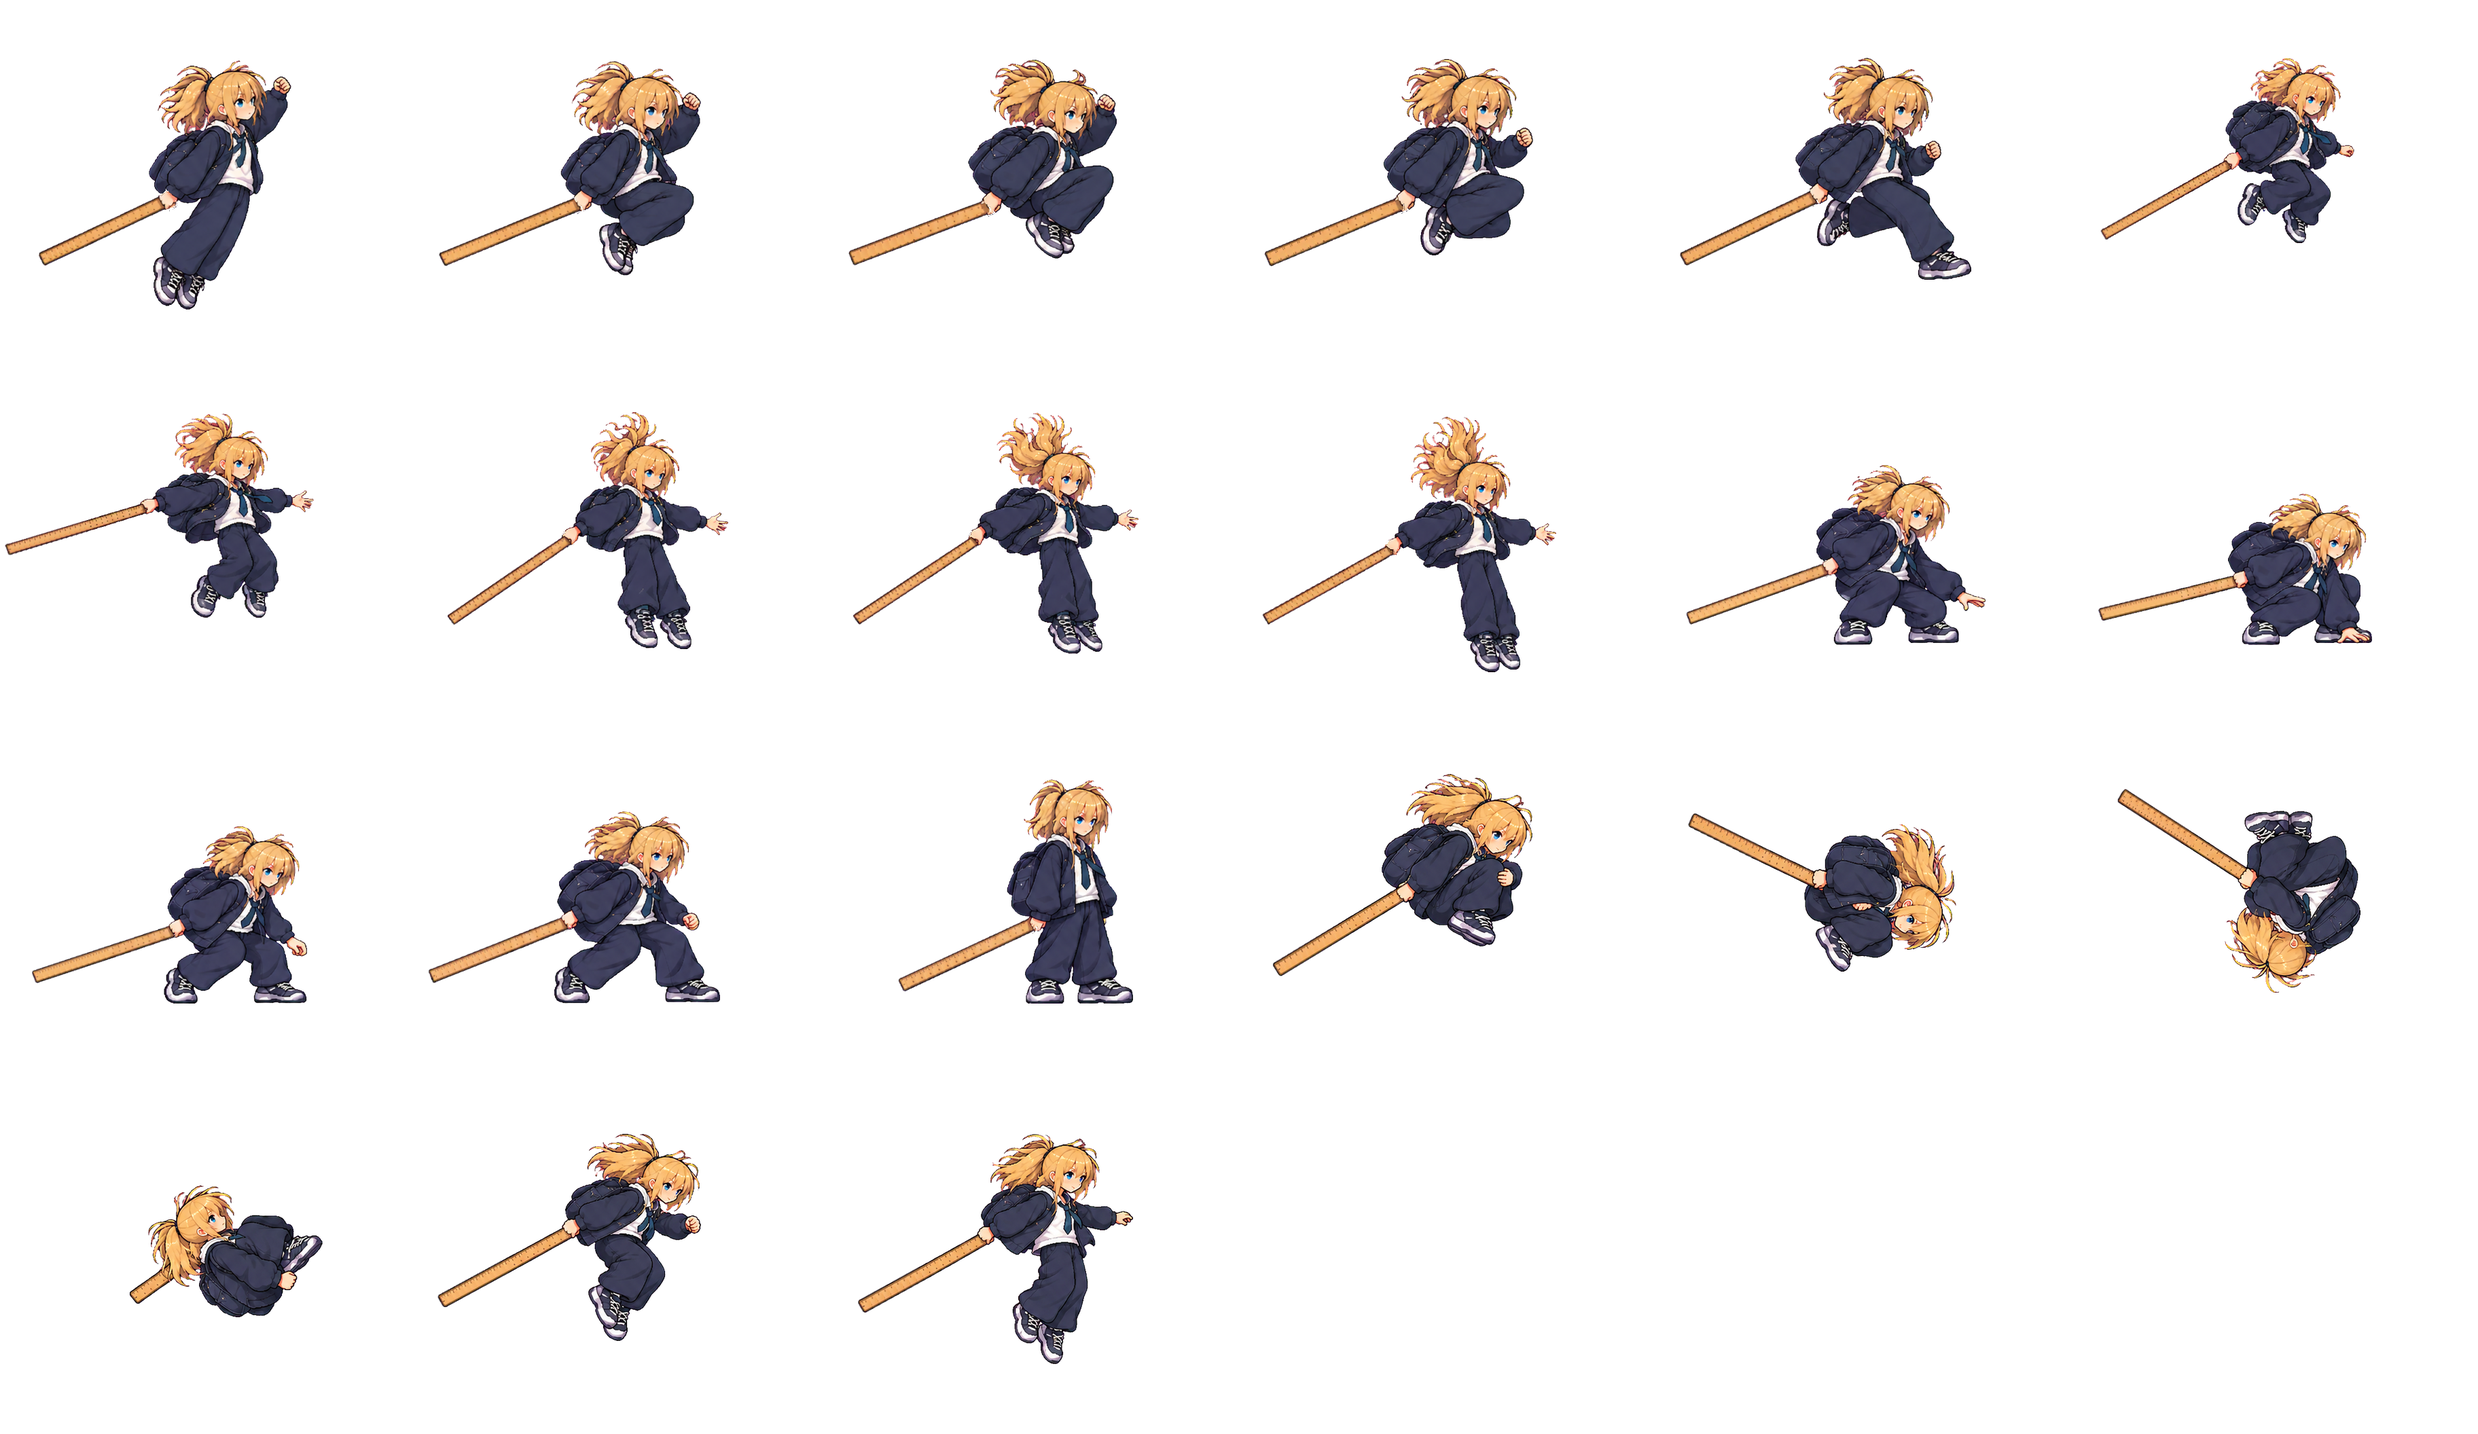
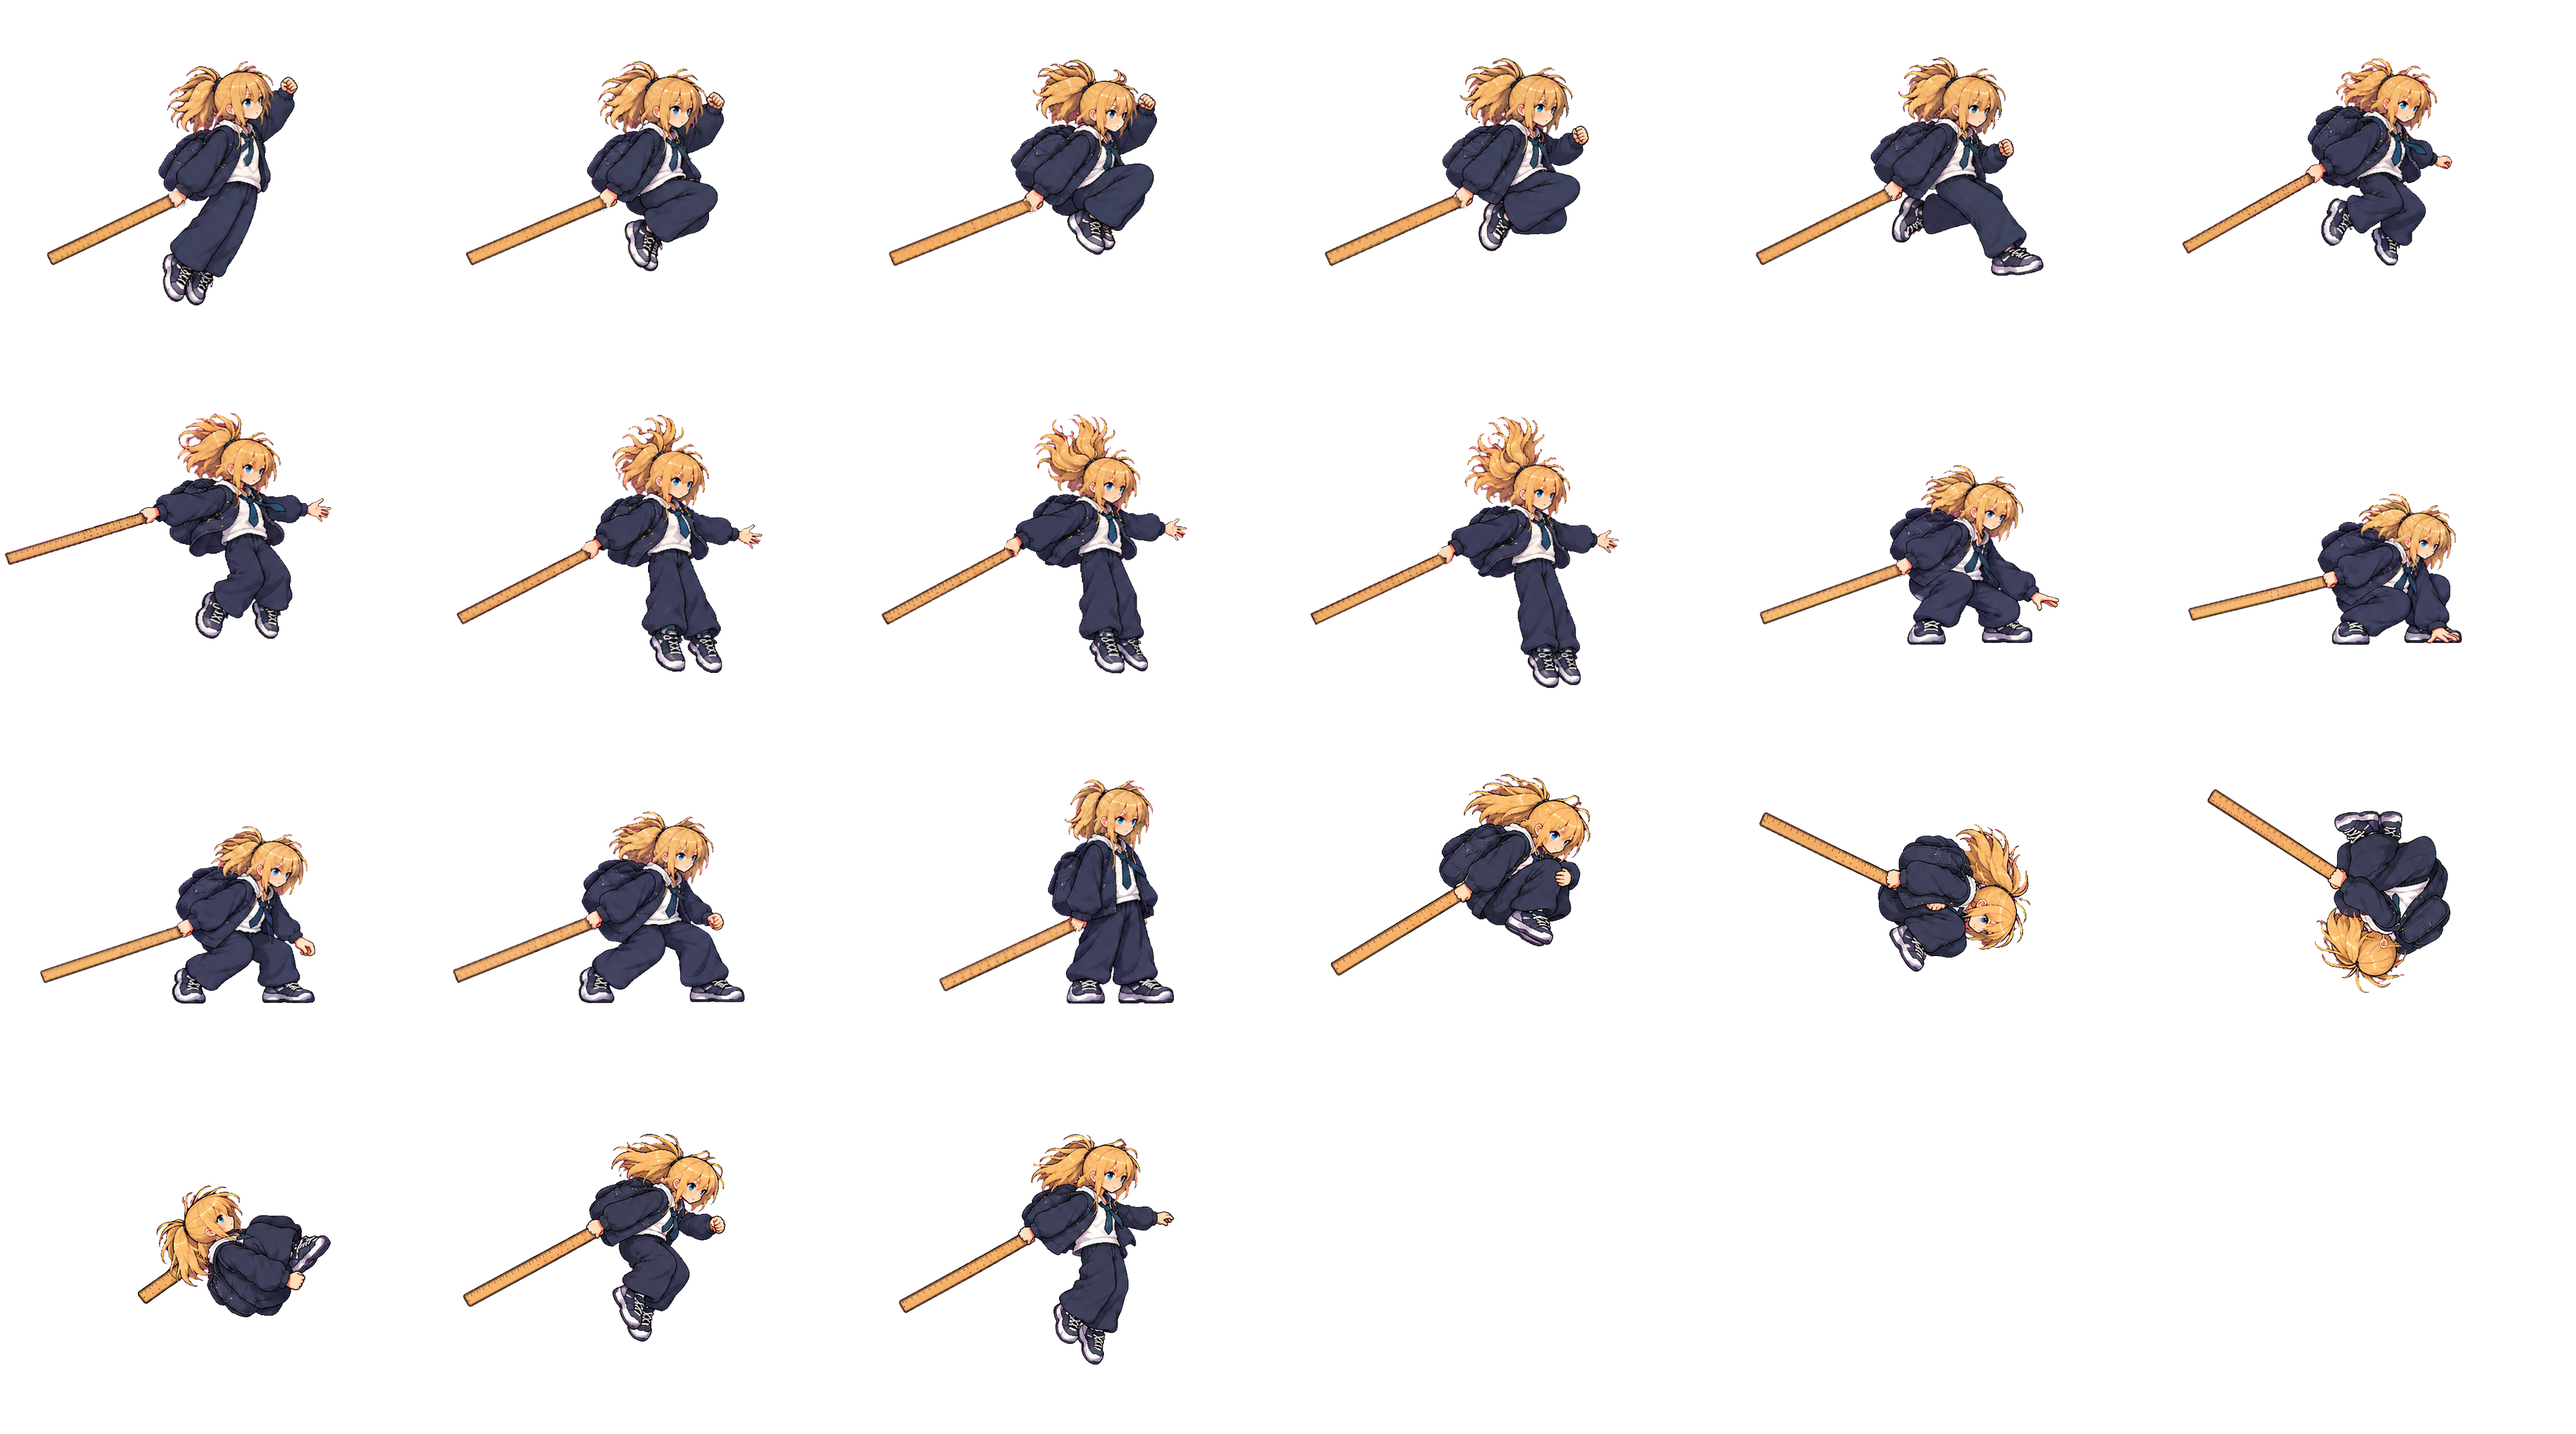
fix: escala del salto, la caida y el doble salto medida por el tamano de la cara
La caida salia un 12% mas chica que el salto y el idle porque se usaba una escala media supuesta. Ahora se mide la cara contra la del idle y la caida se acerca a la del aterrizaje.

diff --git a/tools/process_luz_jump_fall_land.py b/tools/process_luz_jump_fall_land.py
@@ -45,6 +45,7 @@ import luz_ruler_length as rl  # noqa: E402
 import process_luz_attacks as pa  # noqa: E402  (patches the wood mask, shares the work canvas)
 import process_luz_combat_hits as pch  # noqa: E402
 import process_luz_run_turn_skid as base  # noqa: E402
+import luz_face as lf  # noqa: E402
 
 ROOT = pa.ROOT
 RAW_DIR = pa.RAW_DIR
@@ -151,16 +152,29 @@ def torso_centroid(mask: np.ndarray) -> tuple[float, float]:
 
 
 # Raw sheets with a standing frame (slot, 0-based): the scale is the idle's standing height over
-# the standing figure's height. Codex draws every sheet with the same head size relative to its
-# standing figure (land 0.777, crouch 0.77-0.79), so the sheets without a standing frame (jump,
-# fall, double jump: airborne, no standing pose) use the mean of the measured ones; the heads were
-# overlaid on the idle head to confirm (see the P9 log in odd/tasks/luz-final.md).
+# the standing figure's height. The sheets without one (jump, fall, double jump: airborne) used
+# to take the mean of those scales (0.767), which made the fall's head 12% smaller than the
+# jump's and the idle's (a visible pop on the phone). They are now scaled from the face size
+# (tools/luz_face.py) so their head matches the idle's; the fall then eases from the idle face
+# to the face of the landing's standing frame over its frames, so fall -> land has no pop either.
 STANDING_SLOT = {"luz_jump_land_raw.png": 4, "luz_crouch_raw.png": 7}
+PROVISIONAL_SCALE = 0.767
+FACE_RAMP_TO_LAND = {"fall"}
+
+
+def scaled_copy(source: Image.Image, scale: float) -> Image.Image:
+    w, h = max(1, round(source.width * scale)), max(1, round(source.height * scale))
+    return pch.unpremultiply(pch.premultiply(source).resize((w, h), pch.RESAMPLE))
+
+
+def idle_face() -> float:
+    sheet = Image.open(ASSET_DIR / "luz_idle_sheet.png").convert("RGBA")
+    frames = [sheet.crop(((s % 4) * OUT_CELL, (s // 4) * OUT_CELL, (s % 4 + 1) * OUT_CELL, (s // 4 + 1) * OUT_CELL)) for s in (0, 1, 2, 4, 5, 6, 7)]
+    return lf.median_face(frames)
 
 
 def place(source: Image.Image, scale: float, anchor: str, idle: dict[str, float], front_ref: float, label: str) -> Image.Image:
-    w, h = max(1, round(source.width * scale)), max(1, round(source.height * scale))
-    scaled = pch.unpremultiply(pch.premultiply(source).resize((w, h), pch.RESAMPLE))
+    scaled = scaled_copy(source, scale)
     x0, y0, x1, y1 = base.alpha_bbox(scaled)
     scaled = scaled.crop((x0, y0, x1 + 1, y1 + 1))
     mask = base.body_mask(scaled)
@@ -203,14 +217,33 @@ def load_raws(idle: dict[str, float]) -> dict[str, tuple[dict[int, Image.Image],
             measured[raw_name] = idle["height"] / float(rows.max() - rows.min() + 1)
     if not measured:
         raise ValueError("no standing reference raw (land or crouch) to fix the scale")
-    fallback = statistics.mean(measured.values())
-    result = {name: (frames, measured.get(name, fallback)) for name, frames in sources.items()}
-    for name, (_, scale) in result.items():
-        print(f"{name}: scale={scale:.3f}" + ("" if name in measured else " (mean of the standing sheets)"))
+    result: dict[str, tuple[dict[int, Image.Image], float]] = {}
+    face_ref = idle_face()
+    for name, frames in sources.items():
+        if name in measured:
+            result[name] = (frames, measured[name])
+            print(f"{name}: scale={measured[name]:.3f} (standing height)")
+            continue
+        face = lf.median_face([scaled_copy(f, PROVISIONAL_SCALE) for f in frames.values()])
+        if face is None:
+            raise ValueError(f"{name}: no face found to fix the scale")
+        scale = PROVISIONAL_SCALE * face_ref / face
+        result[name] = (frames, scale)
+        print(f"{name}: scale={scale:.3f} (face {face:.1f} at {PROVISIONAL_SCALE} vs idle {face_ref:.1f}; before: 0.767)")
     return result
 
 
-def process_clip(name: str, config: dict, idle: dict[str, float], front_ref: float, raws: dict, ruler_report: list[dict]):
+def land_face_ratio(raws: dict) -> float:
+    """Face of the landing's standing frame over the idle's (the fall eases to it)."""
+    name = "luz_jump_land_raw.png"
+    if name not in raws:
+        return 1.0
+    frames, scale = raws[name]
+    face = lf.face_size(scaled_copy(frames[STANDING_SLOT[name]], scale))
+    return 1.0 if face is None else face / idle_face()
+
+
+def process_clip(name: str, config: dict, idle: dict[str, float], front_ref: float, raws: dict, ruler_report: list[dict], land_ratio: float = 1.0):
     if config["raw"] not in raws:
         print(f"{name}: {config['raw']} not found, skipped (previous output kept)")
         return None
@@ -220,7 +253,9 @@ def process_clip(name: str, config: dict, idle: dict[str, float], front_ref: flo
     for index, slot in enumerate(config["slots"]):
         label = f"{name}[{index}]"
         anchor = config["anchor"][index] if isinstance(config["anchor"], list) else config["anchor"]
-        placed = place(sources[slot], scale, anchor, idle, front_ref, label)
+        count = len(config["slots"])
+        ratio = 1.0 + (land_ratio - 1.0) * index / max(count - 1, 1) if name in FACE_RAMP_TO_LAND else 1.0
+        placed = place(sources[slot], scale * ratio, anchor, idle, front_ref, label)
         force = config.get("force", {}).get(index)
         theta = pa.theta_for(placed, force[0], float(force[1])) if force else None
         frame, info = pa.fit_ruler(placed, label, theta)
@@ -293,9 +328,11 @@ def main() -> int:
     print(f"idle: height {idle['height']:.0f}, torso ({idle['torso_x']:.1f},{idle['torso_y']:.1f}), body ({idle['body_x']:.1f},{idle['body_y']:.1f}), front foot {front_ref:.1f}")
     ruler_report: list[dict] = []
     raws = load_raws(idle)
+    land_ratio = land_face_ratio(raws)
+    print(f"fall eases to the landing face ratio {land_ratio:.3f}")
     built: dict[str, dict[str, list[Image.Image]]] = {}
     for name, config in CLIPS.items():
-        frames = process_clip(name, config, idle, front_ref, raws, ruler_report)
+        frames = process_clip(name, config, idle, front_ref, raws, ruler_report, land_ratio)
         if frames is not None:
             built.setdefault(config["sheet"], {})[name] = frames
     for sheet_key, clip_frames in built.items():

diff --git a/tools/luz_face.py b/tools/luz_face.py
@@ -1,0 +1,53 @@
+"""Face size of a Luz frame, used to give sheets without a standing pose the same body scale.
+
+The face is the skin-coloured blob around the blue iris. Its geometric mean size (sqrt of
+bounding width x height, in texels) is stable to about 3 percent across poses at the same
+body scale, unlike the body height, which changes with the pose. Measure on frames that are
+already at about the output scale (the eye search radius is in texels).
+"""
+
+from __future__ import annotations
+
+import statistics
+
+import numpy as np
+from PIL import Image
+from scipy import ndimage
+
+RADIUS = 14
+
+
+def _eye(a: np.ndarray) -> np.ndarray:
+    r, g, b, al = (a[..., i].astype(int) for i in range(4))
+    return (al > 200) & (b > 170) & (b - r > 50) & (g > 130)
+
+
+def _skin(a: np.ndarray) -> np.ndarray:
+    r, g, b, al = (a[..., i].astype(int) for i in range(4))
+    return (al > 200) & (r > 205) & (g > 150) & (b > 115) & (r - b < 110) & (r - g < 55)
+
+
+def face_size(frame: Image.Image) -> float | None:
+    """sqrt(width x height) of the face blob, or None when the eye or the face is hidden."""
+    a = np.array(frame.convert("RGBA"))
+    eye = _eye(a)
+    if not eye.any():
+        return None
+    lab, n = ndimage.label(eye)
+    sizes = ndimage.sum(eye, lab, range(1, n + 1))
+    ys, xs = np.where(lab == int(np.argmax(sizes)) + 1)
+    cy, cx = int(ys.mean()), int(xs.mean())
+    skin = ndimage.binary_closing(_skin(a) | eye, iterations=1)
+    lab2, _ = ndimage.label(skin)
+    win = lab2[max(0, cy - RADIUS) : cy + RADIUS + 1, max(0, cx - RADIUS) : cx + RADIUS + 1]
+    ids = [v for v in np.unique(win) if v]
+    if not ids:
+        return None
+    best = max(ids, key=lambda v: int((win == v).sum()))
+    ys, xs = np.where(lab2 == best)
+    return float(((xs.max() - xs.min() + 1) * (ys.max() - ys.min() + 1)) ** 0.5)
+
+
+def median_face(frames: list[Image.Image]) -> float | None:
+    values = [v for v in (face_size(f) for f in frames) if v is not None]
+    return statistics.median(values) if values else None
